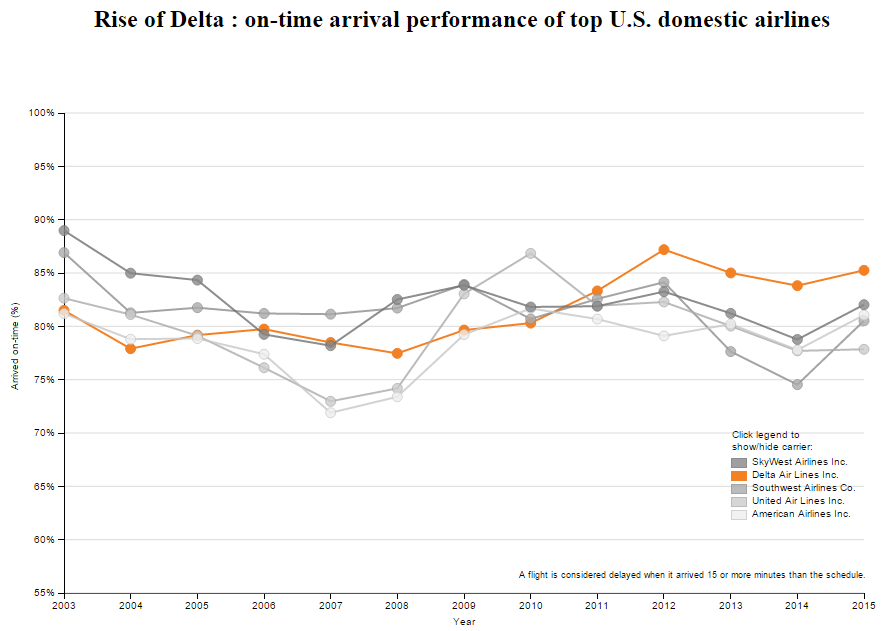
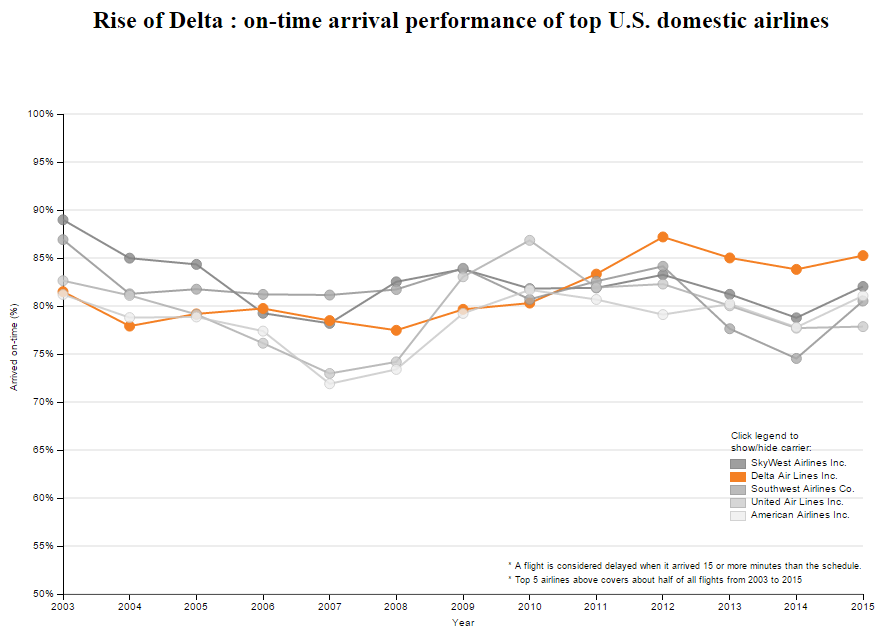
applying Project Review feedback ...

diff --git a/index.html b/index.html
@@ -46,7 +46,7 @@
         var y = myChart.addMeasureAxis("y", "on_time");
         y.tickFormat = "%"
         y.title = "Arrived on-time (%)"
-        y.overrideMin = 0.55
+        y.overrideMin = 0.5
         y.overrideMax = 1.0
 
         // adding line and scatter chart
@@ -58,9 +58,8 @@
         var legendYPos = height - 120
         var myLegend = myChart.addLegend(legendXPos, legendYPos, 200, 100);
 
-        // changing color of overall to grey excetp "Delta Air Lines Inc."
+        // changing color of overall to grey except "Delta Air Lines Inc."
         myChart.defaultColors = [
-            // new dimple.color("#666666"),
             new dimple.color("#888888"),
             new dimple.color("#AAAAAA"),
             new dimple.color("#CCCCCC"),
@@ -128,11 +127,14 @@
 
         //adding foot note
         svg.selectAll("title_text")
-            .data(["A flight is considered delayed when it arrived 15 or more minutes than the schedule."])
+            .data([
+                  "* A flight is considered delayed when it arrived 15 or more minutes than the schedule.",
+                  "* Top 5 airlines above covers about half of all flights from 2003 to 2015"
+                  ])
             .enter()
             .append("text")
-              .attr("x", width - 370)
-              .attr("y", function (d, i) { return height + i * 10; })
+              .attr("x", width - 380)
+              .attr("y", function (d, i) { return height - 10 + i * 14; })
               .style("font-family", "sans-serif")
               .style("font-size", "9px")
               .style("color", "Black")

diff --git a/README.md b/README.md
@@ -1,9 +1,9 @@
 Make Effective Data Visualization: Airline On-time Arrival Performance
 ========================================================
-by HanByul Yang, November 24, 2015
+by HanByul Yang, November 25, 2015
 
 ## Summary ##
-This chart shows the growth of on-time arrival performance "Delta Air Lines Inc" by comparision with top U.S. airlines for domestic flights from 2003 to 2015. Top 5 airlines cover over half of all flights. A flight is considered delayed when it arrived 15 or more minutes than the schedule.
+This chart shows the growth of on-time arrival performance "Delta Air Lines Inc" by comparision with top U.S. airlines for domestic flights from 2003 to 2015. Top 5 airlines cover about half of all flights. A flight is considered delayed when it arrived 15 or more minutes than the schedule.
 
 ## Design ##
 ### Data Exploration ###
@@ -26,7 +26,7 @@ There are 28 airlines in the datasets. I assumed there are some dominant airline
 |4 |        SkyWest Airlines Inc. | 46600.38 |  5452244 | 33607055 | 0.4550515
 |5 |        United Air Lines Inc. | 38549.82 |  5242775 | 38849830 | 0.5260405
 
-When I drew initial chart, I used top 3 airlines results with no rational reason. There was some feedback point out "Why top 3 airelines?". With more data exploration, As above table, top 5 airlines covers half of all flights from 2003 to 2015. In addition, It is same result of [wikipedia](https://en.wikipedia.org/wiki/List_of_largest_airlines_in_North_America) (Rank 1~4 + regional airlines rank 1).
+When I drew initial chart, I used top 3 airlines results with no rational reason. There was some feedback point out "Why top 3 airelines?". With more data exploration, As above table, top 5 airlines covers half of all flights from 2003 to 2015. In addition, It is same result from [wikipedia (List of largest airlines in North America)](https://en.wikipedia.org/wiki/List_of_largest_airlines_in_North_America) (Rank 1~4 + regional airlines rank 1).
 
 The initial chart shows most of airlines performed poorly in 2007 and have pick in 2012. 
 
@@ -43,15 +43,15 @@ The following chart is initial chart. It also can be found at `index-initial.htm
 ![initial chart](https://raw.githubusercontent.com/yhbyhb/data_analyst_nanodegree_p5/master/data/figure/index-initial.png)
 
 #### Final chart (after feedbacks) ####
-Feedback that there is no story or main puropose was crucial to chart. One suggestion was emphasizing the growth of Perfomnce of "Delta Air Lines Inc.". Delta was worse perfomance at left side of chart and now It performs the best among the chart. I refined the chart in order to express the story.
+Feedback that there is no story or main puropose was crucial. One suggestion was emphasizing the growth of Perfomnce of "Delta Air Lines Inc.". Delta was worse perfomance at left side of chart but Since 2011, It performs the best among the top 5 airlines. I refined the chart in order to express that story.
 
 Followings are changes from initial chart.
 - Refined title for showing the purpose of chart clearly.
-- Added a label for explanation of delayed flight at bottom of the chart.
+- Added labels for explanations of delayed flight and choice of top 5 airlines at bottom of the chart.
 - Added click interaction on legend to show and hide each airline graph.
-- Refined "Average" legend to "Overall (all 28 airlines)" for clear understanding.
+- Removed "Average" from chart. It is unhelpful information to chart.
 - Changed position of legend from bottom of chart to near the lines.
-- Changed range of y-axis to show 55 ~ 100%.
+- Changed range of y-axis from 70 ~ 90 % to 50 ~ 100% to avoid exaggeration.
 - Changed color of series gray tones except "Delta Air Lines Inc.".
 
 Some feedbacks were not used for refining chart. I didn't use all 28 airlines data. Because it didn't give any information but confusion. Also I didn't use worst on-time performance airline data. I think It is enoungh to show top 5 airlines performances that covers 50% of all flights. I didn't give any additional information to hovering tooltip because I'd like to give only values of x and y-axis. To give additional info may disturb on main purpose of chart.
